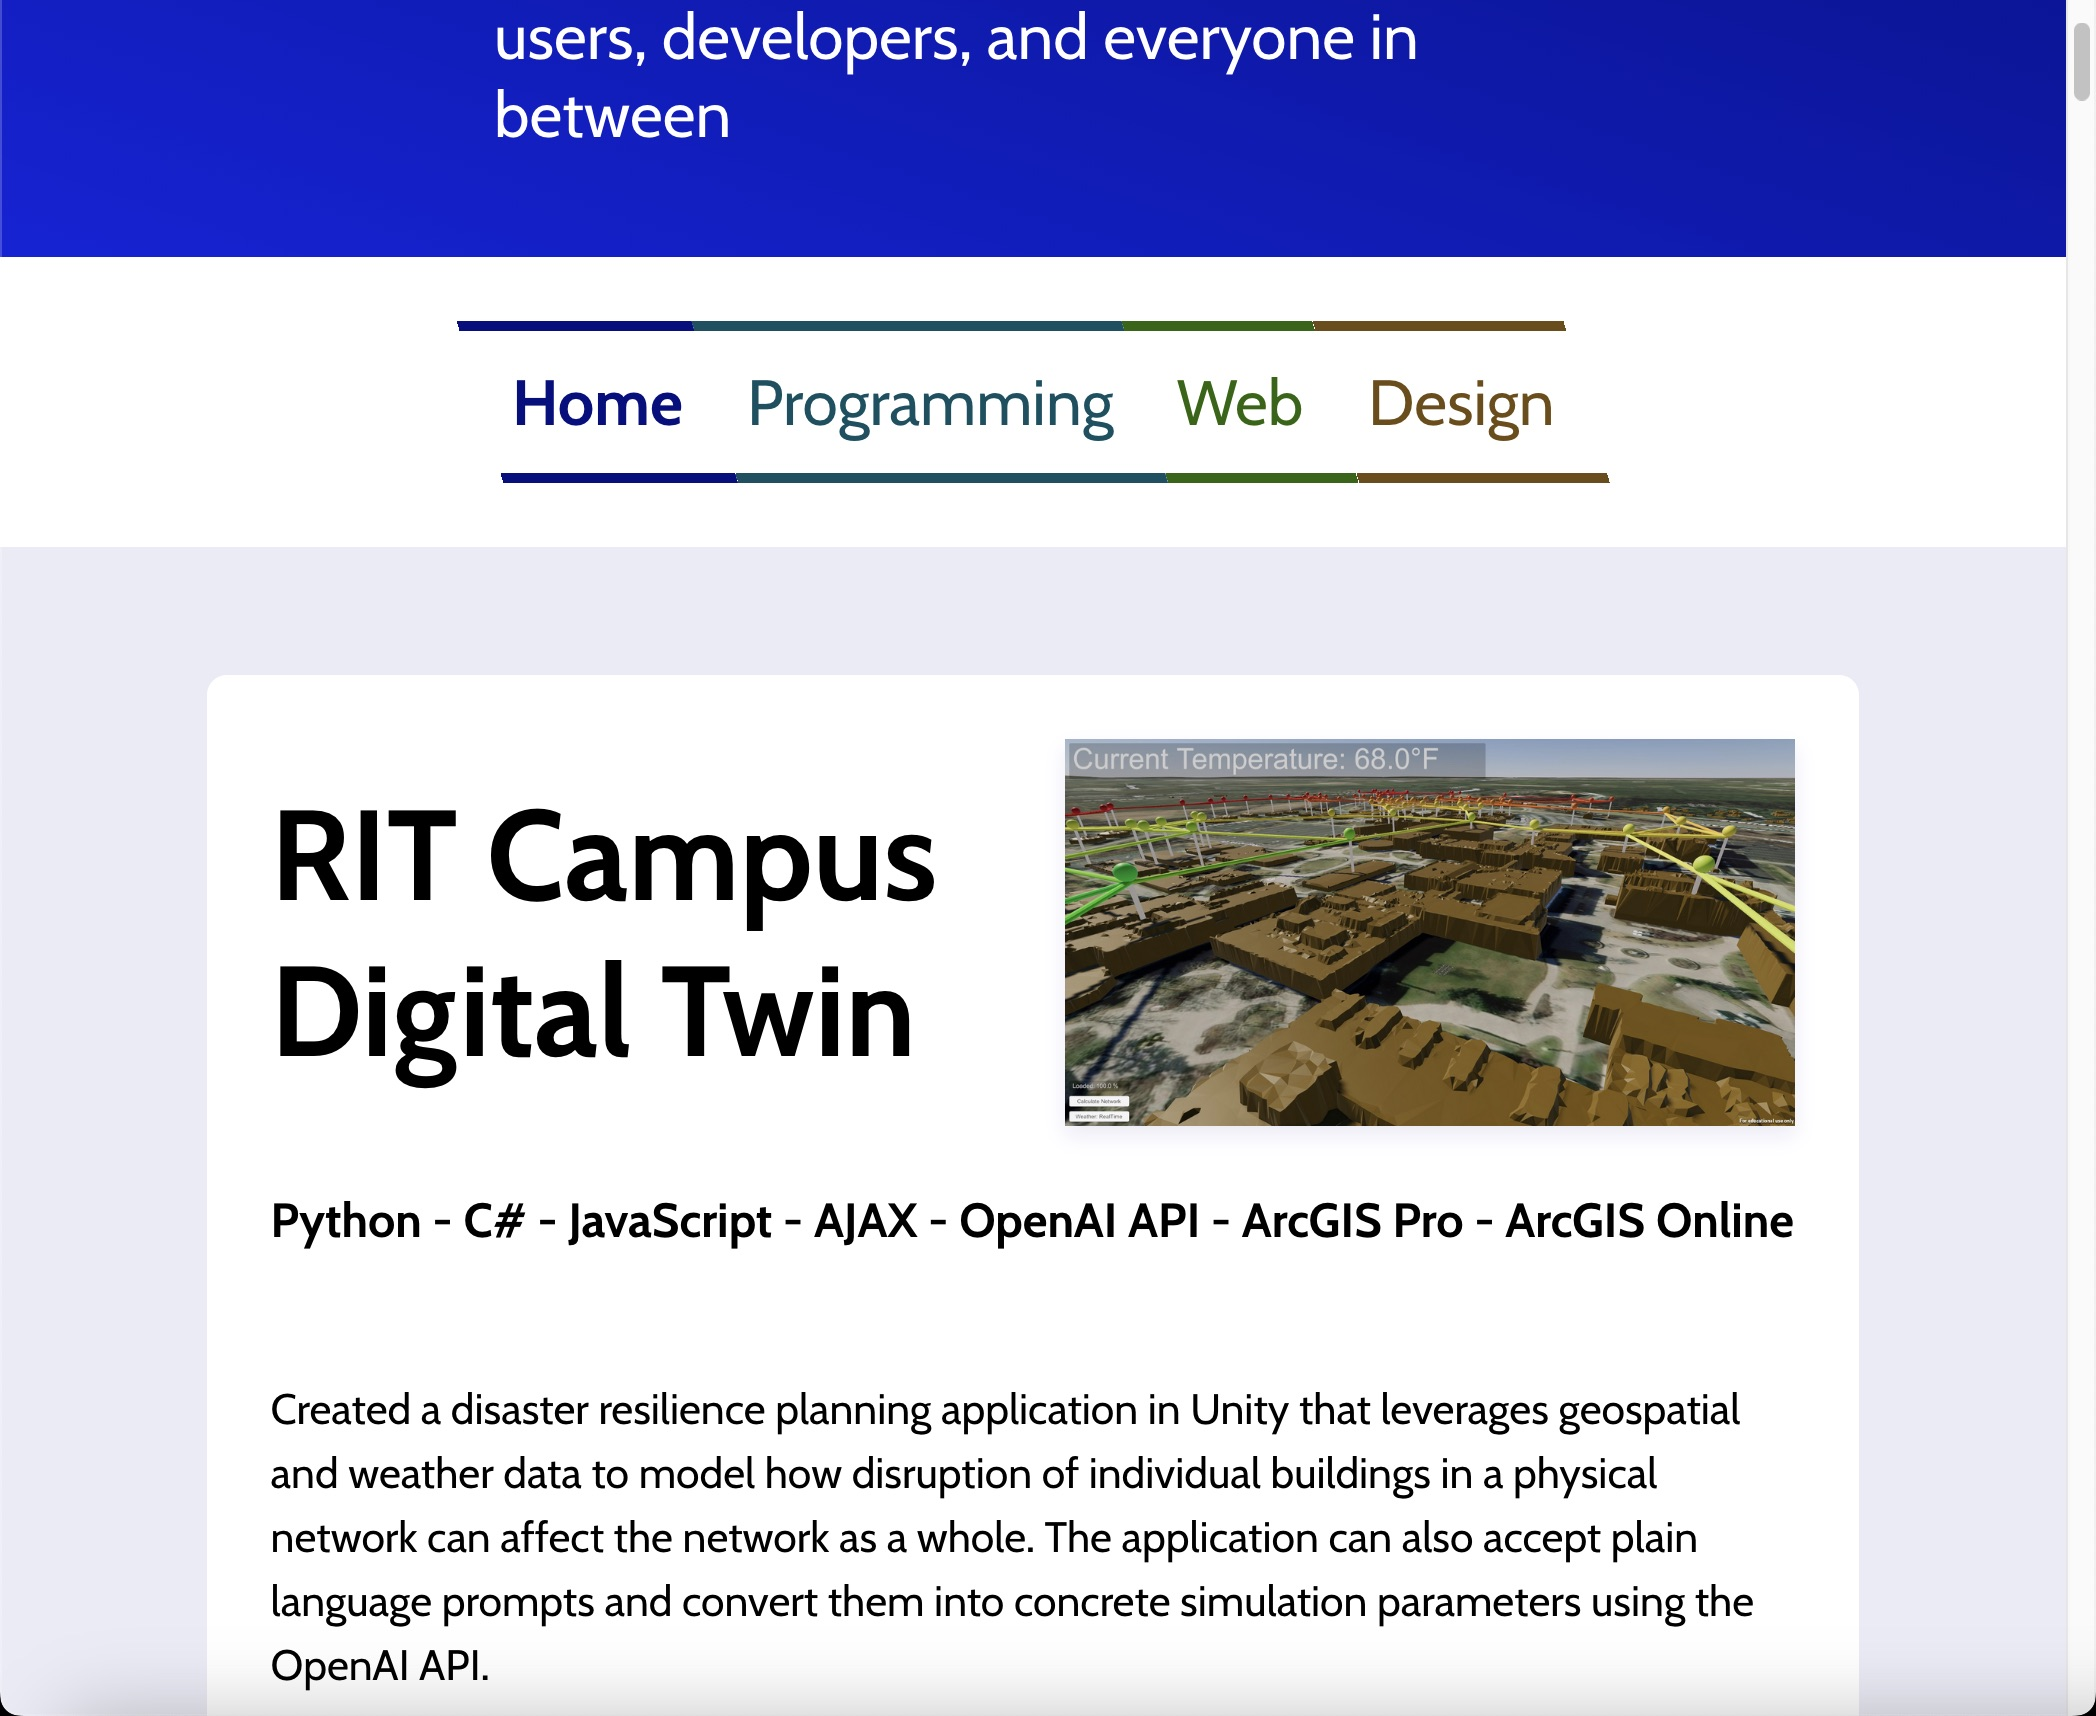
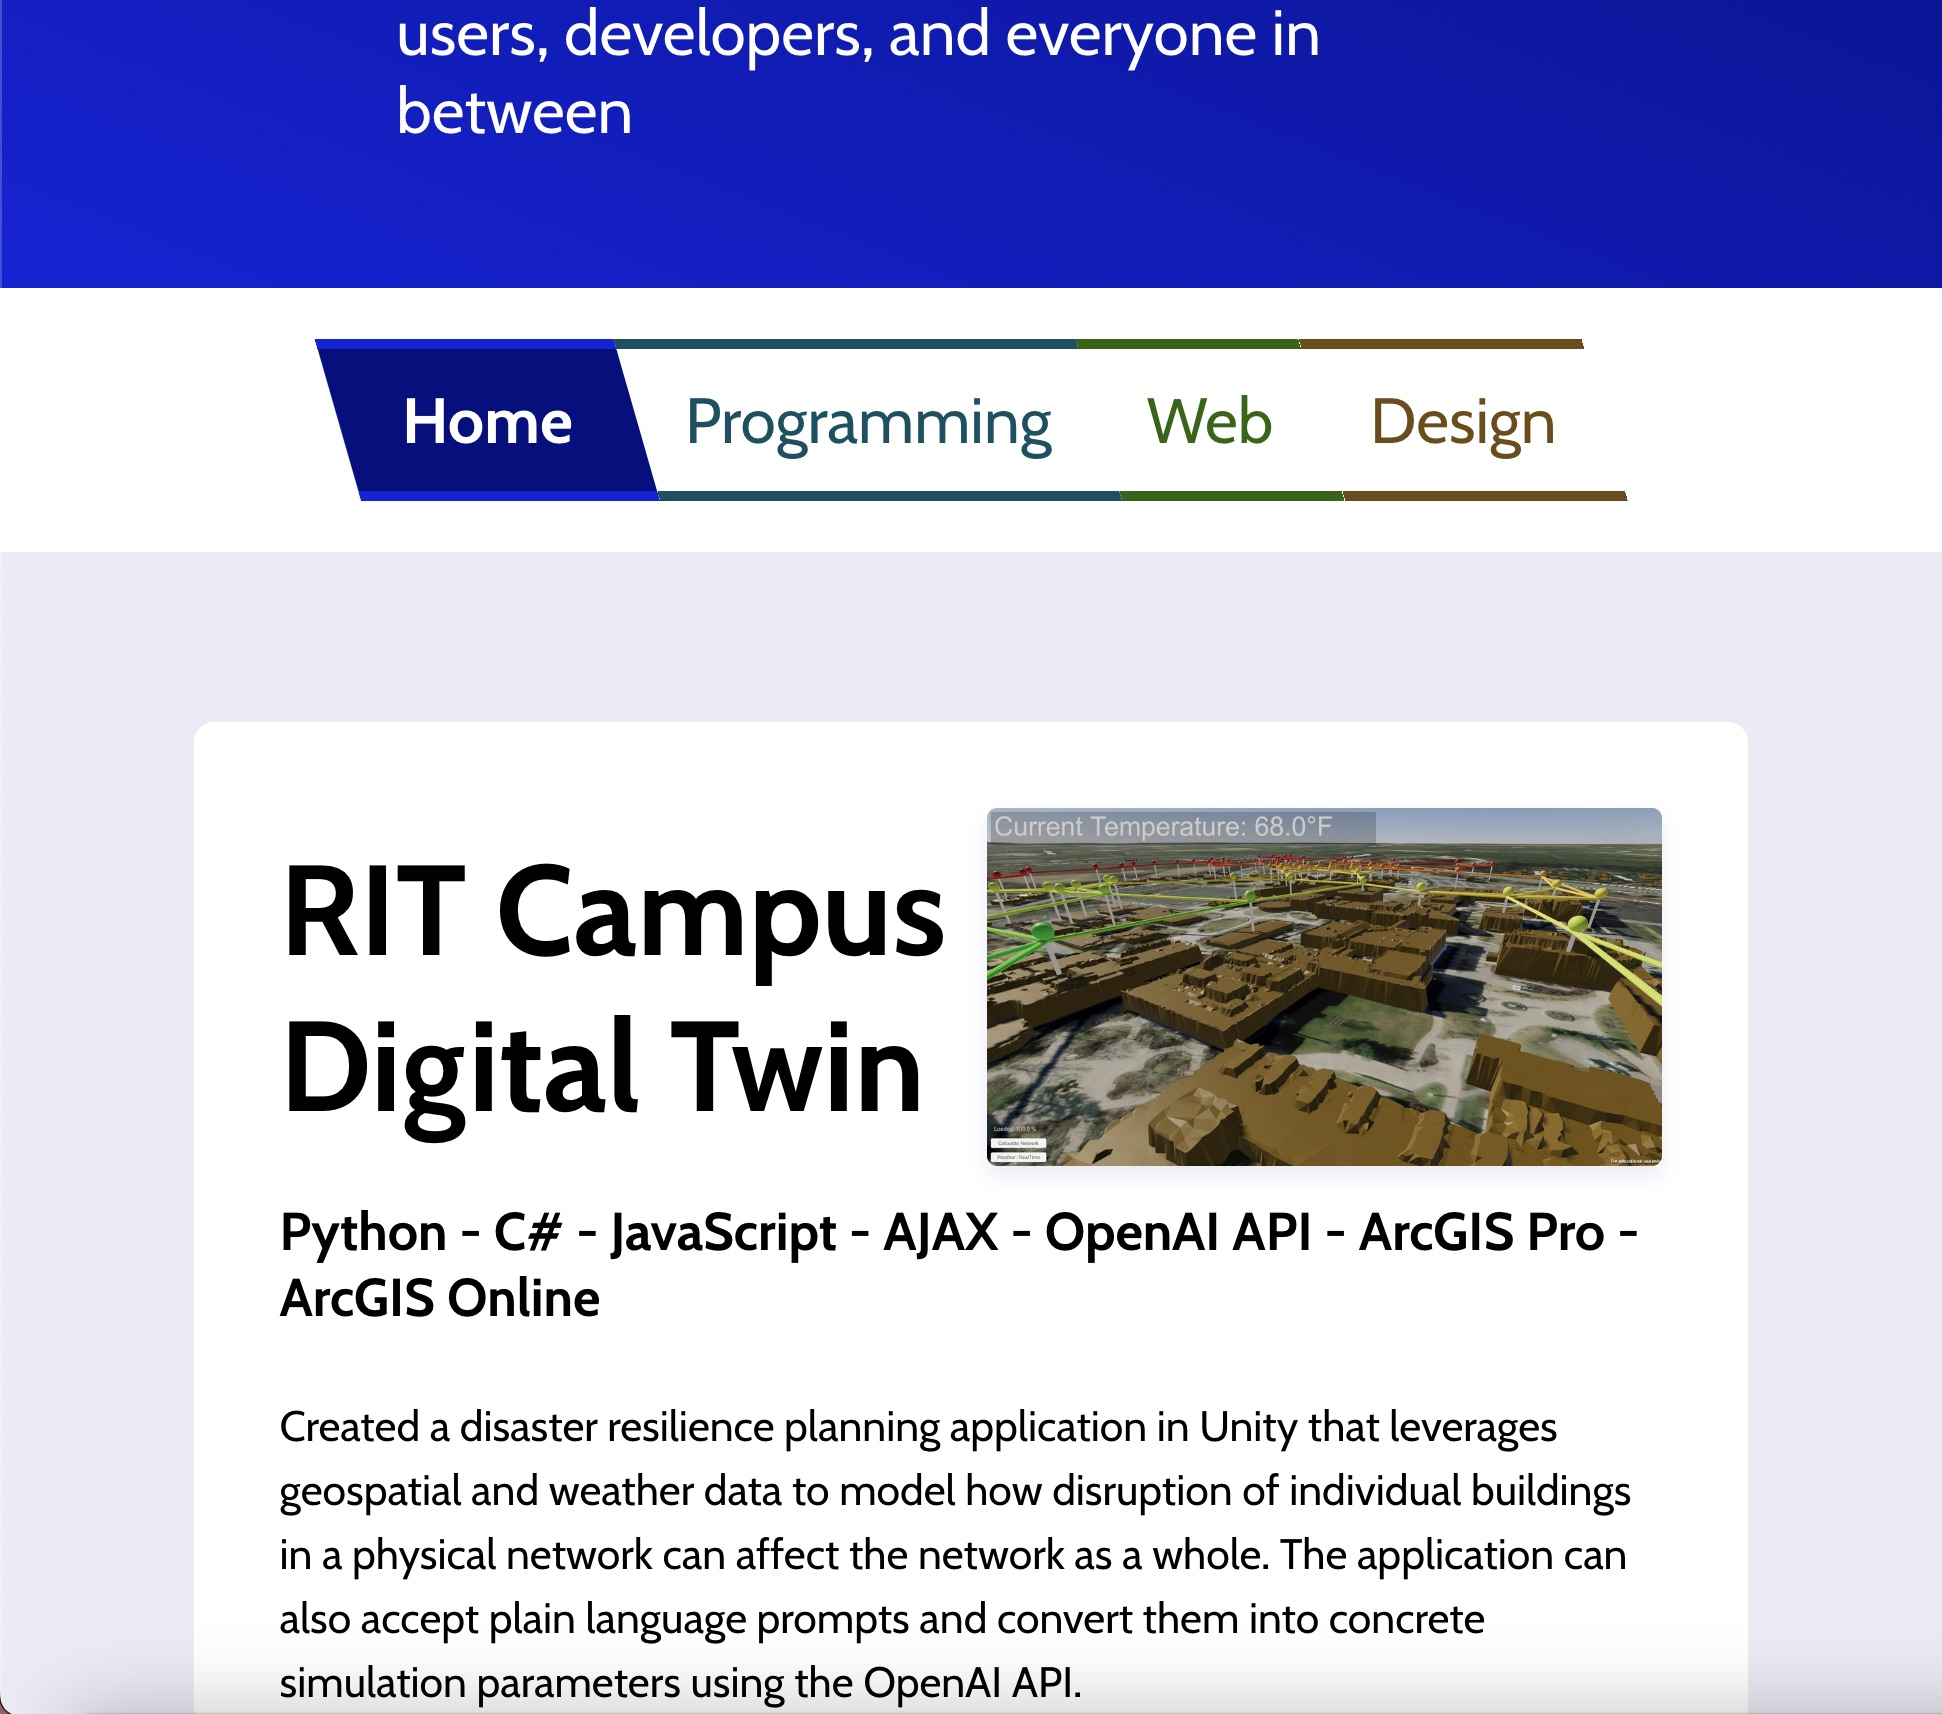
Updated portfolio site pictures

diff --git a/css/main.css b/css/main.css
@@ -74,7 +74,7 @@ main>p {
   align-items: center;
 
   margin: 0px 0px 2em;
-  padding: 1.5em 0;
+  padding: 0.5em 0;
   height: 100px;
 
   font-size: 1.5em;
